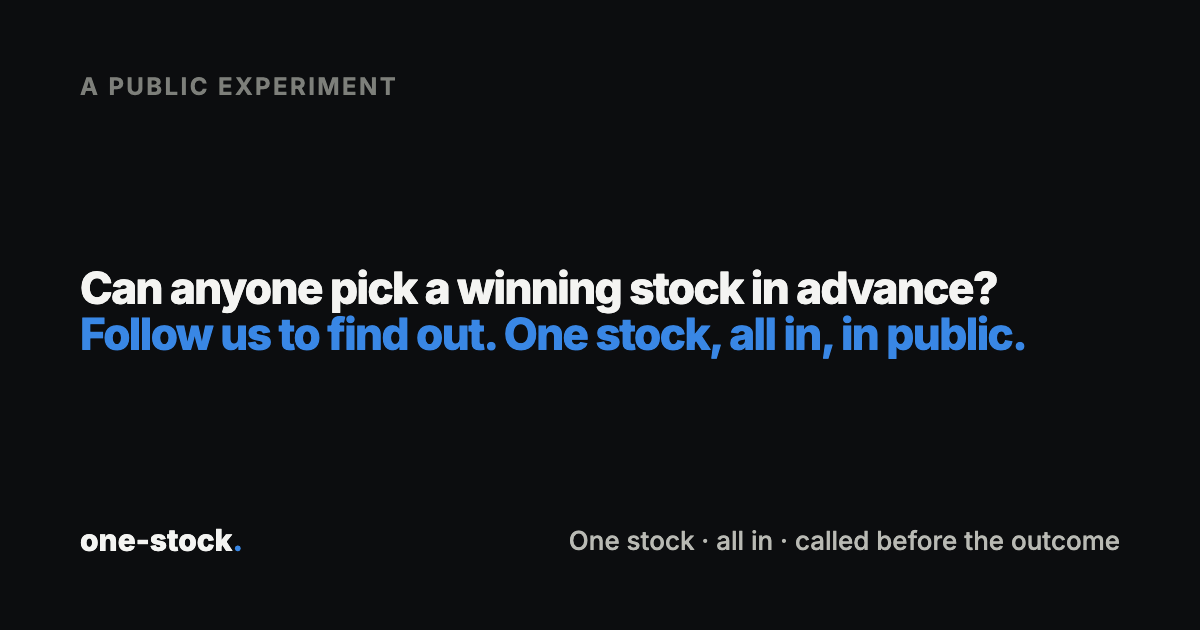
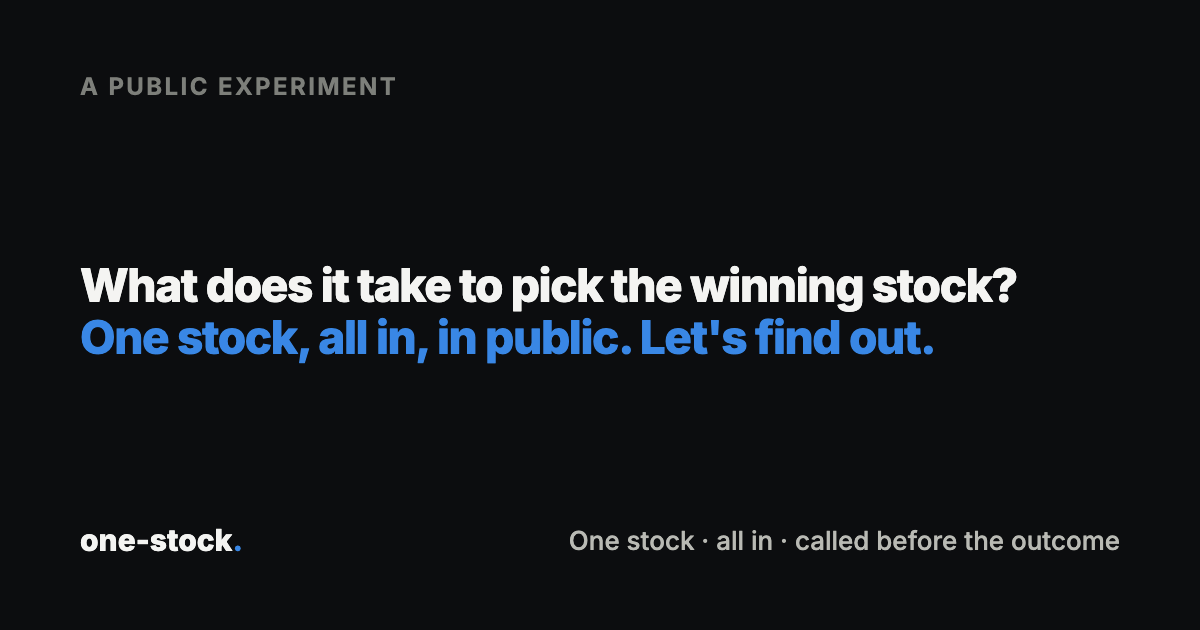
publish: 2026-10-04

Changed region(s): [[0.0617, 0.4222, 0.8633, 0.573]]

diff --git a/demo.html b/demo.html
@@ -7,14 +7,14 @@
 <meta name="description" content="A public experiment: rules backed by daily research put 100% into one stock, called at 10am ET before the outcome. Every win and loss stays up.">
 <meta property="og:type" content="website">
 <meta property="og:site_name" content="one-stock">
-<meta property="og:title" content="Can anyone pick a winning stock in advance? Follow us to find out. One stock, all in, in public.">
+<meta property="og:title" content="What does it take to pick the winning stock? One stock, all in, in public. Let's find out.">
 <meta property="og:description" content="A public experiment: one stock, all in, called before the outcome. Every win and loss stays up.">
 <meta property="og:url" content="https://spillai13.github.io/one-stock/">
 <meta property="og:image" content="https://spillai13.github.io/one-stock/og.png">
 <meta property="og:image:width" content="1200">
 <meta property="og:image:height" content="630">
 <meta name="twitter:card" content="summary_large_image">
-<meta name="twitter:title" content="Can anyone pick a winning stock in advance? Follow us to find out. One stock, all in, in public.">
+<meta name="twitter:title" content="What does it take to pick the winning stock? One stock, all in, in public. Let's find out.">
 <meta name="twitter:description" content="A public experiment: one stock, all in, called before the outcome. Every win and loss stays up.">
 <meta name="twitter:image" content="https://spillai13.github.io/one-stock/og.png">
 <link rel="preconnect" href="https://fonts.googleapis.com">
@@ -81,22 +81,17 @@ h2 { font-size: clamp(26px, 3.6vw, 34px); letter-spacing: -0.025em; margin: 0 0 
 .why h3 { margin: 0 0 6px; font-size: 18px; letter-spacing: -0.01em; }
 .why p { margin: 0; color: var(--ink-2); font-size: 15px; }
 /* The funnel: each row's bar width is its share of what was tracked. */
-.funnel { display: flex; flex-direction: column; gap: 10px; }
-.frow { display: grid; grid-template-columns: 92px 1fr; gap: 16px; align-items: center; }
-.frow .n { font: 800 34px/1 Inter; letter-spacing: -0.03em; text-align: right; font-variant-numeric: tabular-nums; }
-.frow .bar2 { position: relative; border-radius: 12px; background: var(--surface-2); min-height: 52px; display: flex; align-items: center; overflow: hidden; }
-.frow .bar2 i { position: absolute; inset: 0 auto 0 0; background: color-mix(in srgb, var(--trader) 22%, transparent); border-radius: 12px; }
-.frow .bar2 span { position: relative; padding: 10px 16px; font-size: 15px; }
-.frow .bar2 span small { display: block; color: var(--ink-3); font-size: 13px; }
-.frow.split .bar2 { background: none; gap: 8px; }
-.seg { flex: 1; border-radius: 12px; padding: 10px 14px; background: var(--surface-2); min-height: 52px; }
-.seg b { font: 800 22px/1 Inter; display: block; margin-bottom: 4px; }
-.seg.lose b { color: var(--bad); } .seg.win b { color: var(--good); } .seg.tie b { color: var(--ink-2); }
-.seg small { color: var(--ink-2); font-size: 13px; }
-.frow.final .n { color: var(--trader); }
-.frow.final .bar2 i { background: var(--trader); }
-.frow.final .bar2 { background: color-mix(in srgb, var(--trader) 14%, var(--surface-2)); }
-.frow.final .bar2 span { font-weight: 700; padding-left: 22px; }
+.race { display: grid; grid-template-columns: 1fr 1.25fr; gap: 28px; align-items: center; }
+.dots { display: flex; flex-wrap: wrap; gap: 7px; }
+.dots i { width: 18px; height: 18px; border-radius: 50%; background: var(--line); }
+.dots i.win { background: var(--good); box-shadow: 0 0 0 4px color-mix(in srgb, var(--good) 25%, transparent); }
+.race-cap { font: 700 20px/1.3 Inter; margin-top: 16px; letter-spacing: -0.01em; }
+.race-cap b { color: var(--good); }
+.rsteps { display: flex; flex-direction: column; gap: 14px; }
+.rsteps > div { display: grid; grid-template-columns: 30px 1fr; gap: 10px; }
+.rsteps .k { font: 700 14px/1.6 JetBrains Mono, monospace; color: var(--trader); }
+.rsteps h4 { margin: 0 0 2px; font-size: 16px; }
+.rsteps p { margin: 0; color: var(--ink-2); font-size: 14.5px; }
 .asof { color: var(--ink-3); font-size: 13px; margin-top: 12px; }
 .scoreboard { display: grid; grid-template-columns: 1fr 1fr 1fr; gap: 16px; margin: 0 0 16px; }
 .stat .k { color: var(--ink-3); font-size: 13px; font-weight: 600; letter-spacing: .04em; text-transform: uppercase; }
@@ -161,9 +156,7 @@ footer ul { padding-left: 18px; margin: 10px 0 0; } footer li { margin: 4px 0; }
 @media (max-width: 760px) {
   .wrap { padding: 0 16px; }
   .cards, .why, .scoreboard, .rules { grid-template-columns: 1fr; }
-  .frow { grid-template-columns: 64px 1fr; gap: 10px; }
-  .frow .n { font-size: 26px; }
-  .frow.split .bar2 { flex-direction: column; align-items: stretch; }
+  .race { grid-template-columns: 1fr; }
   .hide-sm { display: none; }
 }
 </style>
@@ -182,7 +175,7 @@ footer ul { padding-left: 18px; margin: 10px 0 0; } footer li { margin: 4px 0; }
   <!-- 1. The idea, in five seconds -->
   <div class="hero">
     <div class="eyebrow" id="eyebrow">A public experiment</div>
-    <h1 id="headline">Can anyone pick a winning stock in advance?<br><em>Follow us to find out. One stock, all in, in public.</em></h1>
+    <h1 id="headline">What does it take to pick the winning stock?<br><em>One stock, all in, in public. Let's find out.</em></h1>
     <p class="lede" id="lede">Behind the scenes, a research system does the hard work,
       testing trading ideas against the market every day. Its rules then back one stock
       with conviction, putting in 100% of the money, as the best shot at the most growth in the least time.</p>
@@ -266,9 +259,20 @@ footer ul { padding-left: 18px; margin: 10px 0 0; } footer li { margin: 4px 0; }
   <!-- 4. How: simple on top, the experimentation underneath -->
   <section id="how">
     <h2>How one stock gets picked</h2>
-    <p class="sub">Behind the scenes, a research system keeps testing trading ideas against the S&amp;P 500. Most don't survive. Here's the funnel, from the latest numbers.</p>
+    <p class="sub">Trading strategies compete every trading day. Only a winner gets to pick.</p>
     <div class="card">
-      <div class="funnel" id="funnel"></div>
+      <div class="race">
+        <div>
+          <div class="dots" id="dots" aria-hidden="true"></div>
+          <div class="race-cap" id="race-cap"></div>
+        </div>
+        <div class="rsteps">
+          <div><span class="k">01</span><div><h4>Many strategies, one race</h4><p>Each is a different way of choosing stocks. All of them are measured against the S&amp;P 500.</p></div></div>
+          <div><span class="k">02</span><div><h4>Most lose</h4><p>Beating the market once is luck. A strategy has to keep winning.</p></div></div>
+          <div><span class="k">03</span><div><h4>Only winners pick</h4><p>Stop beating the market, and a strategy stops picking. It can happen any day.</p></div></div>
+          <div><span class="k">04</span><div><h4>All in on one</h4><p>From the winners' picks, it puts everything in one stock and holds it until its rules say sell. No winner? It buys nothing.</p></div></div>
+        </div>
+      </div>
       <div class="asof" id="funnel-asof"></div>
     </div>
   </section>
@@ -284,7 +288,7 @@ footer ul { padding-left: 18px; margin: 10px 0 0; } footer li { margin: 4px 0; }
     <h2>The rules it can't break</h2>
     <div class="rules">
       <div class="card rule"><div class="big">1 stock</div>
-        <p>All in on the best bet, never spread thin. To buy something new, it sells everything first.</p>
+        <p>All in on one stock, never spread thin. To buy something new, it sells everything first.</p>
         <p class="warnline">One stock swings harder than many. This is an experiment. Don't copy it with money you need.</p></div>
       <div class="card rule"><div class="big" id="r-stop"></div><p>The price it sells at to cut a loss is set before it buys. Hit it, and it's out. No hoping.</p></div>
       <div class="card rule"><div class="big">0 edits</div><p>A call is never changed once made. Results are only ever added, never rewritten.</p></div>
@@ -310,7 +314,7 @@ footer ul { padding-left: 18px; margin: 10px 0 0; } footer li { margin: 4px 0; }
       <li>No real money is involved yet. Trades are pretend: bought and sold at the day's closing price, by the rules.</li>
       <li>Results don't include trading costs, which would take roughly <span id="f-friction"></span> off each buy-and-sell.</li>
       <li>Until at least <span id="f-min"></span> trades have finished, the page says "too early to tell" instead of guessing. Averages come with a range showing how sure the result is.</li>
-      <li>The research counts are re-checked every day and change; the date they're from is shown next to them. "Ideas tracked" means the ideas the research system follows now, not every idea it has ever tried.</li>
+      <li>The research counts are re-checked every day and change; the date they're from is shown next to them. "In the race" means the strategies being tested now, not every one ever tried.</li>
       <li>"Beat the market" means: in past trades, by more than luck usually explains, on a strict statistical test. The past doesn't promise the future. That's what this experiment checks.</li>
       <li>The record restarted on Sep 26, 2026 with this engine. Calls from an earlier, retired engine (Sep 2–25) were taken off the record then; they remain, unedited, in the project's private history.</li>
       <li>This is not investment advice.</li>
@@ -322,7 +326,7 @@ footer ul { padding-left: 18px; margin: 10px 0 0; } footer li { margin: 4px 0; }
 <div class="toast" id="toast"></div>
 
 <script>
-const DATA = {"built": "2026-10-04", "era_start": "2026-09-26", "first_pick": "2026-09-03", "trades": [{"date": "2026-09-08", "ticker": "FRSH", "name": "Freshworks Inc.", "fill_date": "2026-09-08", "fill": 12.1, "stop": 11.13, "target": 13.31, "d_eff": 14.6, "exit_date": "2026-09-23", "exit": 11.89, "exit_reason": "switch", "exit_price_date": "2026-09-11", "return_pct": -1.736, "excess_spy_pct": -1.977, "days_held": 11.0, "replaces": ""}, {"date": "2026-09-23", "ticker": "DOCS", "name": "Doximity, Inc.", "fill_date": "2026-09-23", "fill": 26.57, "stop": 24.44, "target": 31.35, "d_eff": 17.3, "exit_date": "2026-10-01", "exit": 28.5, "exit_reason": "switch", "exit_price_date": "2026-10-01", "return_pct": 7.264, "excess_spy_pct": 7.761, "days_held": 6.0, "replaces": "FRSH"}, {"date": "2026-10-01", "ticker": "DOCU", "name": "DocuSign, Inc.", "fill_date": "2026-10-01", "fill": 69.74, "stop": 64.16, "target": 76.71, "d_eff": 12.4, "exit_date": null, "exit": null, "exit_reason": null, "exit_price_date": null, "return_pct": null, "excess_spy_pct": null, "days_held": null, "replaces": "DOCS"}], "curve": [{"d": "2026-09-03", "t": 1000.0, "s": 1000.0}, {"d": "2026-09-04", "t": 1000.0, "s": 996.15}, {"d": "2026-09-08", "t": 1000.0, "s": 990.67}, {"d": "2026-09-09", "t": 985.95, "s": 986.07}, {"d": "2026-09-10", "t": 980.99, "s": 980.16}, {"d": "2026-09-11", "t": 982.64, "s": 988.51}, {"d": "2026-09-14", "t": 982.64, "s": 984.1}, {"d": "2026-09-15", "t": 982.64, "s": 979.59}, {"d": "2026-09-16", "t": 982.64, "s": 975.27}, {"d": "2026-09-17", "t": 982.64, "s": 986.33}, {"d": "2026-09-21", "t": 982.64, "s": 1000.43}, {"d": "2026-09-22", "t": 982.64, "s": 1000.27}, {"d": "2026-09-23", "t": 982.64, "s": 993.07}, {"d": "2026-09-24", "t": 963.04, "s": 992.25}, {"d": "2026-09-25", "t": 974.51, "s": 997.65}, {"d": "2026-09-28", "t": 968.96, "s": 990.22}, {"d": "2026-09-29", "t": 980.8, "s": 988.4}, {"d": "2026-09-30", "t": 1048.1, "s": 986.37}, {"d": "2026-10-01", "t": 1054.02, "s": 988.13}], "stats": {"decisions": 21, "closed": 2, "open": 1, "return_per_trade": null, "min_n": 5}, "rules": {"stop_pct": 0.08, "friction": 0.003, "mode": "virtual"}, "demo": {"start": "2026-09-03", "end": "2026-10-02", "accepted": "company name, sector, industry and market cap are today's values (the table keeps no history); a market-cap move across the $300M floor, an industry reclassification, or an earnings date reported after the replayed morning could differ from what was known then", "gaps": [{"ticker": "FRSH", "price_date": "2026-09-11", "exit_date": "2026-09-23"}]}, "research": {"as_of": "2026-10-02", "tracked": 57, "set_aside": 49, "judged": 8, "beats": 1, "loses": 6, "unclear": 1}, "calls_ahead": ["2026-10-05T10:00:00-04:00", "2026-10-06T10:00:00-04:00", "2026-10-07T10:00:00-04:00", "2026-10-08T10:00:00-04:00", "2026-10-09T10:00:00-04:00", "2026-10-12T10:00:00-04:00"]};
+const DATA = {"built": "2026-10-04", "era_start": "2026-09-26", "first_pick": "2026-09-03", "trades": [{"date": "2026-09-08", "ticker": "FRSH", "name": "Freshworks Inc.", "fill_date": "2026-09-08", "fill": 12.1, "stop": 11.13, "target": 13.31, "d_eff": 14.6, "exit_date": "2026-09-23", "exit": 11.89, "exit_reason": "switch", "exit_price_date": "2026-09-11", "return_pct": -1.736, "excess_spy_pct": -1.977, "days_held": 11.0, "replaces": ""}, {"date": "2026-09-23", "ticker": "DOCS", "name": "Doximity, Inc.", "fill_date": "2026-09-23", "fill": 26.57, "stop": 24.44, "target": 31.35, "d_eff": 17.3, "exit_date": "2026-10-01", "exit": 28.5, "exit_reason": "switch", "exit_price_date": "2026-10-01", "return_pct": 7.264, "excess_spy_pct": 7.761, "days_held": 6.0, "replaces": "FRSH"}, {"date": "2026-10-01", "ticker": "DOCU", "name": "DocuSign, Inc.", "fill_date": "2026-10-01", "fill": 69.74, "stop": 64.16, "target": 76.71, "d_eff": 12.4, "exit_date": null, "exit": null, "exit_reason": null, "exit_price_date": null, "return_pct": null, "excess_spy_pct": null, "days_held": null, "replaces": "DOCS"}], "curve": [{"d": "2026-09-03", "t": 1000.0, "s": 1000.0}, {"d": "2026-09-04", "t": 1000.0, "s": 996.15}, {"d": "2026-09-08", "t": 1000.0, "s": 990.67}, {"d": "2026-09-09", "t": 985.95, "s": 986.07}, {"d": "2026-09-10", "t": 980.99, "s": 980.16}, {"d": "2026-09-11", "t": 982.64, "s": 988.51}, {"d": "2026-09-14", "t": 982.64, "s": 984.1}, {"d": "2026-09-15", "t": 982.64, "s": 979.59}, {"d": "2026-09-16", "t": 982.64, "s": 975.27}, {"d": "2026-09-17", "t": 982.64, "s": 986.33}, {"d": "2026-09-21", "t": 982.64, "s": 1000.43}, {"d": "2026-09-22", "t": 982.64, "s": 1000.27}, {"d": "2026-09-23", "t": 982.64, "s": 993.07}, {"d": "2026-09-24", "t": 963.04, "s": 992.25}, {"d": "2026-09-25", "t": 974.51, "s": 997.65}, {"d": "2026-09-28", "t": 968.96, "s": 990.22}, {"d": "2026-09-29", "t": 980.8, "s": 988.4}, {"d": "2026-09-30", "t": 1048.1, "s": 986.37}, {"d": "2026-10-01", "t": 1054.02, "s": 988.13}], "stats": {"decisions": 21, "closed": 2, "open": 1, "return_per_trade": null, "min_n": 5}, "rules": {"stop_pct": 0.08, "friction": 0.003, "mode": "virtual"}, "demo": {"start": "2026-09-03", "end": "2026-10-02", "accepted": "company name, sector, industry and market cap are today's values (the table keeps no history); a market-cap move across the $300M floor, an industry reclassification, or an earnings date reported after the replayed morning could differ from what was known then", "gaps": [{"ticker": "FRSH", "price_date": "2026-09-11", "exit_date": "2026-09-23"}]}, "research": {"as_of": "2026-10-02", "tracked": 57, "beats": 1, "judged": 8, "loses": 6}, "calls_ahead": ["2026-10-05T10:00:00-04:00", "2026-10-06T10:00:00-04:00", "2026-10-07T10:00:00-04:00", "2026-10-08T10:00:00-04:00", "2026-10-09T10:00:00-04:00", "2026-10-12T10:00:00-04:00"]};
 const $ = id => document.getElementById(id);
 const esc = v => String(v ?? "").replace(/[&<>"']/g, ch => ({"&": "&amp;", "<": "&lt;", ">": "&gt;", '"': "&quot;", "'": "&#39;"}[ch]));
 const usd = v => "$" + v.toLocaleString("en-US", {minimumFractionDigits: 2, maximumFractionDigits: 2});
@@ -331,7 +335,7 @@ const fmtDate = s => new Date(s + "T12:00:00").toLocaleDateString("en-US", {mont
 const SITE = "https://spillai13.github.io/one-stock/";
 // Daily-call accounts. Empty until the poster is live; the page says "starting soon" meanwhile.
 const FOLLOW = {x: "", threads: ""};
-const SHARE_LINE = "Can anyone pick a winning stock in advance? This public experiment is trying: one stock, all in, every result shown.";
+const SHARE_LINE = "What does it take to pick the winning stock? This public experiment is trying: one stock, all in, every result shown.";
 
 (function theme() {
   const root = document.documentElement;
@@ -362,7 +366,7 @@ function demoMode() {
     morning from ${fmtDate(DEMO.start)} to ${fmtDate(DEMO.end)}, seeing only what was known by then: the
     research results from the evening before, prices up to the previous close. Nothing here was called in advance,
     and the line is drawn dashed for that reason. <a href="index.html">The live record is here.</a></p>`;
-  $("headline").innerHTML = "Can anyone pick a winning stock in advance?<br><em>Here's how these rules would have done.</em>";
+  $("headline").innerHTML = "What does it take to pick the winning stock?<br><em>Here's how these rules would have done.</em>";
   $("curve-label").textContent = "Growth of $1,000, replayed from";
   $("cards-title").textContent = "Each call, as the replay made it";
   $("cards-sub").textContent = "What the rules could see at 10:00 on each past morning, and what happened next.";
@@ -421,22 +425,14 @@ function why() {
 
 function funnel() {
   const r = DATA.research;
-  if (!r) { document.querySelector("#how .card").style.display = "none"; return; }
-  const w = n => Math.max(6, Math.round(n / r.tracked * 100));
-  const row = (n, label, small, width, cls = "") => `<div class="frow ${cls}"><div class="n">${n}</div>
-    <div class="bar2"><i style="width:${width}%"></i><span>${label}${small ? `<small>${small}</small>` : ""}</span></div></div>`;
-  $("funnel").innerHTML = [
-    row(r.tracked, "trading ideas being tracked", "Strategies, themes and rules the research system follows", 100),
-    row(r.set_aside, "set aside", "Not enough independent trades yet to judge fairly", w(r.set_aside)),
-    row(r.judged, "put to a strict test against the S&amp;P 500", "", w(r.judged)),
-    `<div class="frow split"><div class="n"></div><div class="bar2">
-      <div class="seg lose"><b>${r.loses}</b><small>reliably lose to the market</small></div>
-      <div class="seg tie"><b>${r.unclear}</b><small>too close to call</small></div>
-      <div class="seg win"><b>${r.beats}</b><small>beat${r.beats === 1 ? "s" : ""} it</small></div></div></div>`,
-    row("→", "the stocks it's buying today", "Minus anything hard to trade, too jumpy, or reporting earnings soon", 12),
-    row(1, "the calmest of them, held until the rules say sell", "", 4, "final"),
-  ].join("");
-  $("funnel-asof").textContent = `Counts as of ${fmtDate(r.as_of)}. The research is re-run every trading day, and its methods keep evolving, so these numbers change.`;
+  if (!r) { document.querySelector("#how .race > div:first-child").style.display = "none"; return; }
+  // One dot per strategy in the race; the winners lit, spread evenly through the field.
+  const lit = new Set(Array.from({length: r.beats}, (_, i) => Math.floor((i + 0.5) * r.tracked / r.beats)));
+  $("dots").innerHTML = Array.from({length: r.tracked}, (_, i) => `<i${lit.has(i) ? ' class="win"' : ""}></i>`).join("");
+  $("race-cap").innerHTML = r.beats
+    ? `${r.tracked} in the race · <b>${r.beats}</b> beating the market in testing`
+    : `${r.tracked} in the race · no winner right now, so nothing new gets bought.`;
+  $("funnel-asof").textContent = `As of ${fmtDate(r.as_of)}. The rest are losing, too close to call, or too new to judge. Strategies are added, dropped and re-tested all the time, and the methods keep evolving, so these numbers change.`;
 }
 
 function scoreboard() {

diff --git a/index.html b/index.html
@@ -7,14 +7,14 @@
 <meta name="description" content="A public experiment: rules backed by daily research put 100% into one stock, called at 10am ET before the outcome. Every win and loss stays up.">
 <meta property="og:type" content="website">
 <meta property="og:site_name" content="one-stock">
-<meta property="og:title" content="Can anyone pick a winning stock in advance? Follow us to find out. One stock, all in, in public.">
+<meta property="og:title" content="What does it take to pick the winning stock? One stock, all in, in public. Let's find out.">
 <meta property="og:description" content="A public experiment: one stock, all in, called before the outcome. Every win and loss stays up.">
 <meta property="og:url" content="https://spillai13.github.io/one-stock/">
 <meta property="og:image" content="https://spillai13.github.io/one-stock/og.png">
 <meta property="og:image:width" content="1200">
 <meta property="og:image:height" content="630">
 <meta name="twitter:card" content="summary_large_image">
-<meta name="twitter:title" content="Can anyone pick a winning stock in advance? Follow us to find out. One stock, all in, in public.">
+<meta name="twitter:title" content="What does it take to pick the winning stock? One stock, all in, in public. Let's find out.">
 <meta name="twitter:description" content="A public experiment: one stock, all in, called before the outcome. Every win and loss stays up.">
 <meta name="twitter:image" content="https://spillai13.github.io/one-stock/og.png">
 <link rel="preconnect" href="https://fonts.googleapis.com">
@@ -81,22 +81,17 @@ h2 { font-size: clamp(26px, 3.6vw, 34px); letter-spacing: -0.025em; margin: 0 0 
 .why h3 { margin: 0 0 6px; font-size: 18px; letter-spacing: -0.01em; }
 .why p { margin: 0; color: var(--ink-2); font-size: 15px; }
 /* The funnel: each row's bar width is its share of what was tracked. */
-.funnel { display: flex; flex-direction: column; gap: 10px; }
-.frow { display: grid; grid-template-columns: 92px 1fr; gap: 16px; align-items: center; }
-.frow .n { font: 800 34px/1 Inter; letter-spacing: -0.03em; text-align: right; font-variant-numeric: tabular-nums; }
-.frow .bar2 { position: relative; border-radius: 12px; background: var(--surface-2); min-height: 52px; display: flex; align-items: center; overflow: hidden; }
-.frow .bar2 i { position: absolute; inset: 0 auto 0 0; background: color-mix(in srgb, var(--trader) 22%, transparent); border-radius: 12px; }
-.frow .bar2 span { position: relative; padding: 10px 16px; font-size: 15px; }
-.frow .bar2 span small { display: block; color: var(--ink-3); font-size: 13px; }
-.frow.split .bar2 { background: none; gap: 8px; }
-.seg { flex: 1; border-radius: 12px; padding: 10px 14px; background: var(--surface-2); min-height: 52px; }
-.seg b { font: 800 22px/1 Inter; display: block; margin-bottom: 4px; }
-.seg.lose b { color: var(--bad); } .seg.win b { color: var(--good); } .seg.tie b { color: var(--ink-2); }
-.seg small { color: var(--ink-2); font-size: 13px; }
-.frow.final .n { color: var(--trader); }
-.frow.final .bar2 i { background: var(--trader); }
-.frow.final .bar2 { background: color-mix(in srgb, var(--trader) 14%, var(--surface-2)); }
-.frow.final .bar2 span { font-weight: 700; padding-left: 22px; }
+.race { display: grid; grid-template-columns: 1fr 1.25fr; gap: 28px; align-items: center; }
+.dots { display: flex; flex-wrap: wrap; gap: 7px; }
+.dots i { width: 18px; height: 18px; border-radius: 50%; background: var(--line); }
+.dots i.win { background: var(--good); box-shadow: 0 0 0 4px color-mix(in srgb, var(--good) 25%, transparent); }
+.race-cap { font: 700 20px/1.3 Inter; margin-top: 16px; letter-spacing: -0.01em; }
+.race-cap b { color: var(--good); }
+.rsteps { display: flex; flex-direction: column; gap: 14px; }
+.rsteps > div { display: grid; grid-template-columns: 30px 1fr; gap: 10px; }
+.rsteps .k { font: 700 14px/1.6 JetBrains Mono, monospace; color: var(--trader); }
+.rsteps h4 { margin: 0 0 2px; font-size: 16px; }
+.rsteps p { margin: 0; color: var(--ink-2); font-size: 14.5px; }
 .asof { color: var(--ink-3); font-size: 13px; margin-top: 12px; }
 .scoreboard { display: grid; grid-template-columns: 1fr 1fr 1fr; gap: 16px; margin: 0 0 16px; }
 .stat .k { color: var(--ink-3); font-size: 13px; font-weight: 600; letter-spacing: .04em; text-transform: uppercase; }
@@ -161,9 +156,7 @@ footer ul { padding-left: 18px; margin: 10px 0 0; } footer li { margin: 4px 0; }
 @media (max-width: 760px) {
   .wrap { padding: 0 16px; }
   .cards, .why, .scoreboard, .rules { grid-template-columns: 1fr; }
-  .frow { grid-template-columns: 64px 1fr; gap: 10px; }
-  .frow .n { font-size: 26px; }
-  .frow.split .bar2 { flex-direction: column; align-items: stretch; }
+  .race { grid-template-columns: 1fr; }
   .hide-sm { display: none; }
 }
 </style>
@@ -182,7 +175,7 @@ footer ul { padding-left: 18px; margin: 10px 0 0; } footer li { margin: 4px 0; }
   <!-- 1. The idea, in five seconds -->
   <div class="hero">
     <div class="eyebrow" id="eyebrow">A public experiment</div>
-    <h1 id="headline">Can anyone pick a winning stock in advance?<br><em>Follow us to find out. One stock, all in, in public.</em></h1>
+    <h1 id="headline">What does it take to pick the winning stock?<br><em>One stock, all in, in public. Let's find out.</em></h1>
     <p class="lede" id="lede">Behind the scenes, a research system does the hard work,
       testing trading ideas against the market every day. Its rules then back one stock
       with conviction, putting in 100% of the money, as the best shot at the most growth in the least time.</p>
@@ -266,9 +259,20 @@ footer ul { padding-left: 18px; margin: 10px 0 0; } footer li { margin: 4px 0; }
   <!-- 4. How: simple on top, the experimentation underneath -->
   <section id="how">
     <h2>How one stock gets picked</h2>
-    <p class="sub">Behind the scenes, a research system keeps testing trading ideas against the S&amp;P 500. Most don't survive. Here's the funnel, from the latest numbers.</p>
+    <p class="sub">Trading strategies compete every trading day. Only a winner gets to pick.</p>
     <div class="card">
-      <div class="funnel" id="funnel"></div>
+      <div class="race">
+        <div>
+          <div class="dots" id="dots" aria-hidden="true"></div>
+          <div class="race-cap" id="race-cap"></div>
+        </div>
+        <div class="rsteps">
+          <div><span class="k">01</span><div><h4>Many strategies, one race</h4><p>Each is a different way of choosing stocks. All of them are measured against the S&amp;P 500.</p></div></div>
+          <div><span class="k">02</span><div><h4>Most lose</h4><p>Beating the market once is luck. A strategy has to keep winning.</p></div></div>
+          <div><span class="k">03</span><div><h4>Only winners pick</h4><p>Stop beating the market, and a strategy stops picking. It can happen any day.</p></div></div>
+          <div><span class="k">04</span><div><h4>All in on one</h4><p>From the winners' picks, it puts everything in one stock and holds it until its rules say sell. No winner? It buys nothing.</p></div></div>
+        </div>
+      </div>
       <div class="asof" id="funnel-asof"></div>
     </div>
   </section>
@@ -284,7 +288,7 @@ footer ul { padding-left: 18px; margin: 10px 0 0; } footer li { margin: 4px 0; }
     <h2>The rules it can't break</h2>
     <div class="rules">
       <div class="card rule"><div class="big">1 stock</div>
-        <p>All in on the best bet, never spread thin. To buy something new, it sells everything first.</p>
+        <p>All in on one stock, never spread thin. To buy something new, it sells everything first.</p>
         <p class="warnline">One stock swings harder than many. This is an experiment. Don't copy it with money you need.</p></div>
       <div class="card rule"><div class="big" id="r-stop"></div><p>The price it sells at to cut a loss is set before it buys. Hit it, and it's out. No hoping.</p></div>
       <div class="card rule"><div class="big">0 edits</div><p>A call is never changed once made. Results are only ever added, never rewritten.</p></div>
@@ -310,7 +314,7 @@ footer ul { padding-left: 18px; margin: 10px 0 0; } footer li { margin: 4px 0; }
       <li>No real money is involved yet. Trades are pretend: bought and sold at the day's closing price, by the rules.</li>
       <li>Results don't include trading costs, which would take roughly <span id="f-friction"></span> off each buy-and-sell.</li>
       <li>Until at least <span id="f-min"></span> trades have finished, the page says "too early to tell" instead of guessing. Averages come with a range showing how sure the result is.</li>
-      <li>The research counts are re-checked every day and change; the date they're from is shown next to them. "Ideas tracked" means the ideas the research system follows now, not every idea it has ever tried.</li>
+      <li>The research counts are re-checked every day and change; the date they're from is shown next to them. "In the race" means the strategies being tested now, not every one ever tried.</li>
       <li>"Beat the market" means: in past trades, by more than luck usually explains, on a strict statistical test. The past doesn't promise the future. That's what this experiment checks.</li>
       <li>The record restarted on Sep 26, 2026 with this engine. Calls from an earlier, retired engine (Sep 2–25) were taken off the record then; they remain, unedited, in the project's private history.</li>
       <li>This is not investment advice.</li>
@@ -322,7 +326,7 @@ footer ul { padding-left: 18px; margin: 10px 0 0; } footer li { margin: 4px 0; }
 <div class="toast" id="toast"></div>
 
 <script>
-const DATA = {"built": "2026-10-04", "era_start": "2026-09-26", "first_pick": "2026-09-28", "trades": [{"date": "2026-09-28", "ticker": "DOCU", "name": "DocuSign, Inc.", "fill_date": "2026-09-28", "fill": 66.98, "stop": 61.62, "target": 73.68, "d_eff": 12.4, "exit_date": null, "exit": null, "exit_reason": null, "exit_price_date": null, "return_pct": null, "excess_spy_pct": null, "days_held": null, "replaces": ""}], "curve": [{"d": "2026-09-28", "t": 1000.0, "s": 1000.0}, {"d": "2026-09-29", "t": 1000.0, "s": 998.16}, {"d": "2026-09-30", "t": 1002.54, "s": 996.11}, {"d": "2026-10-01", "t": 1041.21, "s": 997.88}], "stats": {"decisions": 5, "closed": 0, "open": 1, "return_per_trade": null, "min_n": 5}, "rules": {"stop_pct": 0.08, "friction": 0.003, "mode": "virtual"}, "demo": null, "research": {"as_of": "2026-10-02", "tracked": 57, "set_aside": 49, "judged": 8, "beats": 1, "loses": 6, "unclear": 1}, "calls_ahead": ["2026-10-05T10:00:00-04:00", "2026-10-06T10:00:00-04:00", "2026-10-07T10:00:00-04:00", "2026-10-08T10:00:00-04:00", "2026-10-09T10:00:00-04:00", "2026-10-12T10:00:00-04:00"]};
+const DATA = {"built": "2026-10-04", "era_start": "2026-09-26", "first_pick": "2026-09-28", "trades": [{"date": "2026-09-28", "ticker": "DOCU", "name": "DocuSign, Inc.", "fill_date": "2026-09-28", "fill": 66.98, "stop": 61.62, "target": 73.68, "d_eff": 12.4, "exit_date": null, "exit": null, "exit_reason": null, "exit_price_date": null, "return_pct": null, "excess_spy_pct": null, "days_held": null, "replaces": ""}], "curve": [{"d": "2026-09-28", "t": 1000.0, "s": 1000.0}, {"d": "2026-09-29", "t": 1000.0, "s": 998.16}, {"d": "2026-09-30", "t": 1002.54, "s": 996.11}, {"d": "2026-10-01", "t": 1041.21, "s": 997.88}], "stats": {"decisions": 5, "closed": 0, "open": 1, "return_per_trade": null, "min_n": 5}, "rules": {"stop_pct": 0.08, "friction": 0.003, "mode": "virtual"}, "demo": null, "research": {"as_of": "2026-10-02", "tracked": 57, "beats": 1, "judged": 8, "loses": 6}, "calls_ahead": ["2026-10-05T10:00:00-04:00", "2026-10-06T10:00:00-04:00", "2026-10-07T10:00:00-04:00", "2026-10-08T10:00:00-04:00", "2026-10-09T10:00:00-04:00", "2026-10-12T10:00:00-04:00"]};
 const $ = id => document.getElementById(id);
 const esc = v => String(v ?? "").replace(/[&<>"']/g, ch => ({"&": "&amp;", "<": "&lt;", ">": "&gt;", '"': "&quot;", "'": "&#39;"}[ch]));
 const usd = v => "$" + v.toLocaleString("en-US", {minimumFractionDigits: 2, maximumFractionDigits: 2});
@@ -331,7 +335,7 @@ const fmtDate = s => new Date(s + "T12:00:00").toLocaleDateString("en-US", {mont
 const SITE = "https://spillai13.github.io/one-stock/";
 // Daily-call accounts. Empty until the poster is live; the page says "starting soon" meanwhile.
 const FOLLOW = {x: "", threads: ""};
-const SHARE_LINE = "Can anyone pick a winning stock in advance? This public experiment is trying: one stock, all in, every result shown.";
+const SHARE_LINE = "What does it take to pick the winning stock? This public experiment is trying: one stock, all in, every result shown.";
 
 (function theme() {
   const root = document.documentElement;
@@ -362,7 +366,7 @@ function demoMode() {
     morning from ${fmtDate(DEMO.start)} to ${fmtDate(DEMO.end)}, seeing only what was known by then: the
     research results from the evening before, prices up to the previous close. Nothing here was called in advance,
     and the line is drawn dashed for that reason. <a href="index.html">The live record is here.</a></p>`;
-  $("headline").innerHTML = "Can anyone pick a winning stock in advance?<br><em>Here's how these rules would have done.</em>";
+  $("headline").innerHTML = "What does it take to pick the winning stock?<br><em>Here's how these rules would have done.</em>";
   $("curve-label").textContent = "Growth of $1,000, replayed from";
   $("cards-title").textContent = "Each call, as the replay made it";
   $("cards-sub").textContent = "What the rules could see at 10:00 on each past morning, and what happened next.";
@@ -421,22 +425,14 @@ function why() {
 
 function funnel() {
   const r = DATA.research;
-  if (!r) { document.querySelector("#how .card").style.display = "none"; return; }
-  const w = n => Math.max(6, Math.round(n / r.tracked * 100));
-  const row = (n, label, small, width, cls = "") => `<div class="frow ${cls}"><div class="n">${n}</div>
-    <div class="bar2"><i style="width:${width}%"></i><span>${label}${small ? `<small>${small}</small>` : ""}</span></div></div>`;
-  $("funnel").innerHTML = [
-    row(r.tracked, "trading ideas being tracked", "Strategies, themes and rules the research system follows", 100),
-    row(r.set_aside, "set aside", "Not enough independent trades yet to judge fairly", w(r.set_aside)),
-    row(r.judged, "put to a strict test against the S&amp;P 500", "", w(r.judged)),
-    `<div class="frow split"><div class="n"></div><div class="bar2">
-      <div class="seg lose"><b>${r.loses}</b><small>reliably lose to the market</small></div>
-      <div class="seg tie"><b>${r.unclear}</b><small>too close to call</small></div>
-      <div class="seg win"><b>${r.beats}</b><small>beat${r.beats === 1 ? "s" : ""} it</small></div></div></div>`,
-    row("→", "the stocks it's buying today", "Minus anything hard to trade, too jumpy, or reporting earnings soon", 12),
-    row(1, "the calmest of them, held until the rules say sell", "", 4, "final"),
-  ].join("");
-  $("funnel-asof").textContent = `Counts as of ${fmtDate(r.as_of)}. The research is re-run every trading day, and its methods keep evolving, so these numbers change.`;
+  if (!r) { document.querySelector("#how .race > div:first-child").style.display = "none"; return; }
+  // One dot per strategy in the race; the winners lit, spread evenly through the field.
+  const lit = new Set(Array.from({length: r.beats}, (_, i) => Math.floor((i + 0.5) * r.tracked / r.beats)));
+  $("dots").innerHTML = Array.from({length: r.tracked}, (_, i) => `<i${lit.has(i) ? ' class="win"' : ""}></i>`).join("");
+  $("race-cap").innerHTML = r.beats
+    ? `${r.tracked} in the race · <b>${r.beats}</b> beating the market in testing`
+    : `${r.tracked} in the race · no winner right now, so nothing new gets bought.`;
+  $("funnel-asof").textContent = `As of ${fmtDate(r.as_of)}. The rest are losing, too close to call, or too new to judge. Strategies are added, dropped and re-tested all the time, and the methods keep evolving, so these numbers change.`;
 }
 
 function scoreboard() {
